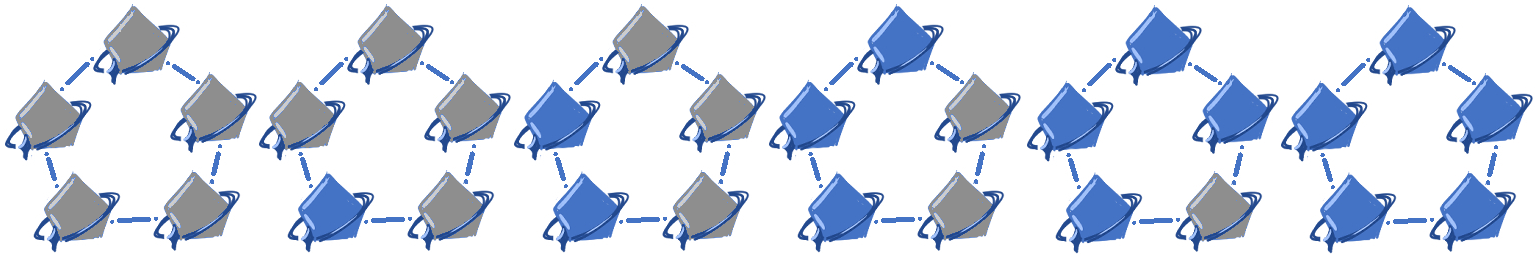
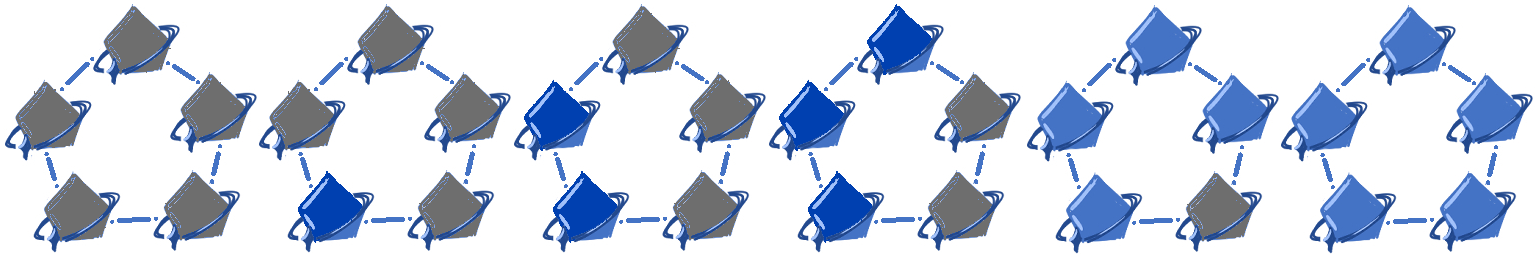
リザルト画面のついか

diff --git a/BaseProject/BaseProject/Project/GameProject/Game/EnemyManager.cpp b/BaseProject/BaseProject/Project/GameProject/Game/EnemyManager.cpp
@@ -1,8 +1,8 @@
 #include "EnemyManager.h"
 #include "Enemy.h"
 EnemyManager::EnemyManager()
-	:time(60*100)
-	,enemyTimer(60*1)
+	:time(60*60)
+	,enemyTimer(60*2)
 	,ObjectBase(eType_Enemy)
 
 {
@@ -27,9 +27,9 @@ void EnemyManager::Update()
 			{*/
 				for (int i = 0; i < 1; i++) {
 					CVector3D pos(Utility::Rand(1920.0f+m_scroll.x, 1920.f + m_scroll.x),
-						Utility::Rand(0.0f, 100.0f),
-						Utility::Rand(-50.0f, 150.0f));
-					new Enemy(pos, CVector3D(64.0f, 128.0f, 40.0f), CVector3D(64.0f, 0.0f, 40.0f));
+						Utility::Rand(0.0f, 350.0f),
+						Utility::Rand(-50.0f, 200.0f));
+					new Enemy(pos, CVector3D(64.0f, 128.0f, 20.0f), CVector3D(64.0f, 0.0f, 20.0f));
 				}
 			/*case 0:
 				new Enemy(
@@ -52,7 +52,7 @@ void EnemyManager::Update()
 					CVector3D(1920.0f + m_scroll.x, 00.0f, 10.0f), CVector3D(64.0f, 128.0f, 40.0f), CVector3D(64.0f, 0.0f, 40.0f));
 				break;*/
 			
-			enemyTimer = 60 * 3;
+			enemyTimer = 60 * 2;
 		}
 	}
 }

diff --git a/BaseProject/BaseProject/Project/GameProject/Game/SterManager.cpp b/BaseProject/BaseProject/Project/GameProject/Game/SterManager.cpp
@@ -34,14 +34,14 @@ SterManager::SterManager()
 {
 	for (int i = 0; i < 10; i++) {
 		CVector3D pos(Utility::Rand(0.0f, 9000.f),
-			Utility::Rand(0.0f, 50.0f),
+			Utility::Rand(0.0f, 200.0f),
 			Utility::Rand(0.0f, 100.0f));
 		new Nomal(pos, CVector3D(65, 270, 50), CVector3D(68, -130, 50));
 	}
 	for (int j = 0; j < 3; j++) {
 		for (int i = 0; i < j + 3; i++) {
 			CVector3D pos(Utility::Rand(0.0f, 9000.f),
-				Utility::Rand(0.0f, 50.0f),
+				Utility::Rand(0.0f, 200.0f),
 				Utility::Rand(0.0f, 100.0f));
 			new Constellation_Star(pos, CVector3D(68, 270, 50), CVector3D(68, -130, 50), j);
 		}

diff --git a/BaseProject/BaseProject/Project/GameProject/Game/Enemy.cpp b/BaseProject/BaseProject/Project/GameProject/Game/Enemy.cpp
@@ -30,8 +30,9 @@ void Enemy::Render()
 	//m_img.SetPos(GetScreenPos(m_pos));
 
 	m_img.SetPos(CalcScreenPos());
-	m_img.SetCenter(64, 128);
-	m_img.SetSize(128, 128);
+	CVector2D size = CalcScreenSize(CVector2D(120, 120));
+	m_img.SetSize(size);
+	m_img.SetCenter(size.x / 2, size.y);
 	m_img.Draw();
 	ObjectBase::RenderShadow();
 	RenderCubu();

diff --git a/BaseProject/BaseProject/Project/GameProject/Game/Game.cpp b/BaseProject/BaseProject/Project/GameProject/Game/Game.cpp
@@ -18,7 +18,7 @@ Game::Game()
 	: Task((int)ETaskPrio::Game, 0,eType_Game)
 {
 	new Player(
-		CVector3D(150.0f, 100.0f, 0.0f), CVector3D(125.0f, 260.0f, 40.0f), CVector3D(125.0f, 0.0f, 40.0f));
+		CVector3D(150.0f, 100.0f, 0.0f), CVector3D(115.0f, 230.0f, 20.0f), CVector3D(115.0f, 0.0f, 20.0f));
 	new Timer;
 	new SterManager;
 	new Field(

diff --git a/BaseProject/BaseProject/Project/GameProject/Game/Constellation_Star.cpp b/BaseProject/BaseProject/Project/GameProject/Game/Constellation_Star.cpp
@@ -33,8 +33,10 @@ void Constellation_Star::Render()
 {
 	RenderShadow();
 	m_img.SetPos(CalcScreenPos());
-	m_img.SetSize(137, 137);
-	m_img.SetCenter(110.0, 135.0 * 2);
+	CVector2D size = CalcScreenSize(CVector2D(137, 137));
+	m_img.SetSize(size);
+	m_img.SetCenter(size.x / 2, size.y*1.6);
+
 	m_img.Draw();
 	RenderCubu();
 }

diff --git a/BaseProject/BaseProject/Project/GameProject/Game/Nomal.cpp b/BaseProject/BaseProject/Project/GameProject/Game/Nomal.cpp
@@ -43,8 +43,10 @@ void Nomal::Render()
 {
 	RenderShadow();
 	m_img.SetPos(CalcScreenPos());
-	m_img.SetSize(137 * 2, 137 * 2);
-	m_img.SetCenter(137.0, 135.0*2);
+	CVector2D size = CalcScreenSize(CVector2D(137*2, 137*2));
+	m_img.SetSize(size);
+	m_img.SetCenter(size.x / 2, size.y);
+
 	m_img.Draw();
 	RenderCubu();
 }

diff --git a/BaseProject/BaseProject/Project/GameProject/UI/Timer.cpp b/BaseProject/BaseProject/Project/GameProject/UI/Timer.cpp
@@ -1,4 +1,6 @@
 #include "Timer.h"
+#include "../System/TaskManager.h"
+#include "Game/Result.h"
 int Timer::timeCnt = 60 * 60;
 int Timer::time_Max = 60 * 60;
 
@@ -24,6 +26,8 @@ void Timer::Update()
 	if (timeCnt < 0)
 	{
 		timeCnt = 0;
+		TaskManager::Instance()->DeleteAll();
+		new Result();
 	}
 }
 
